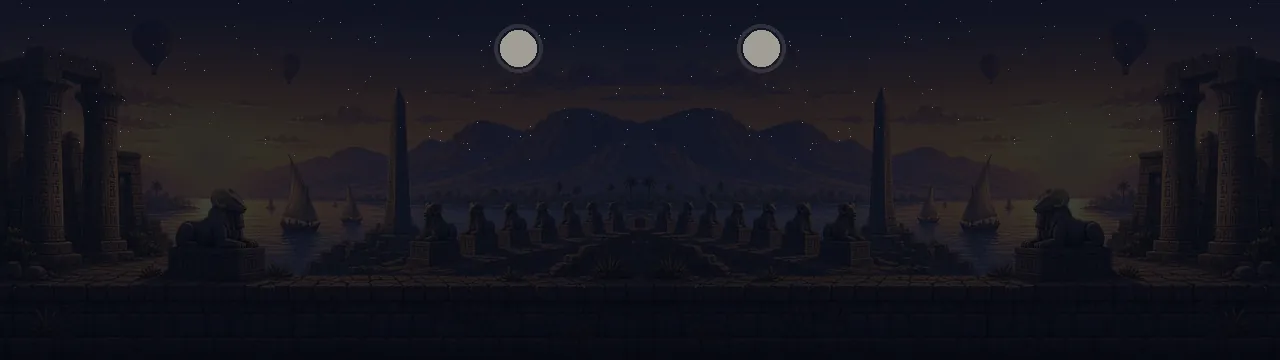
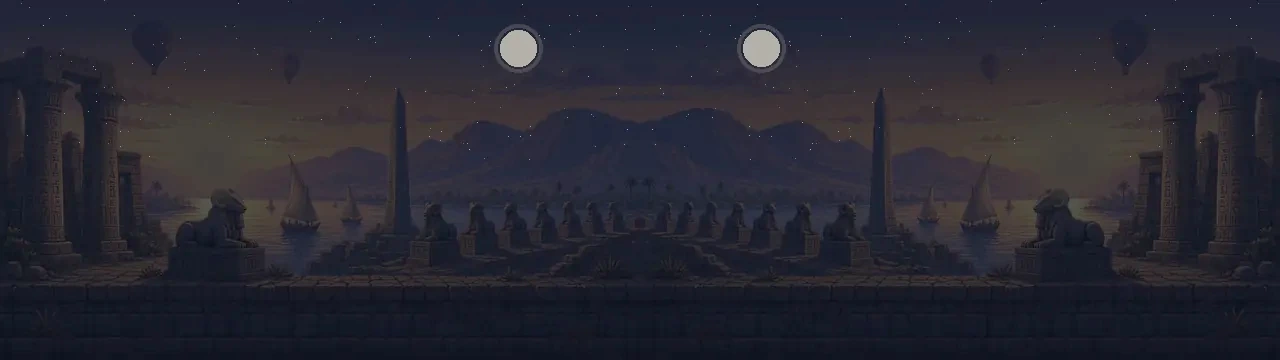
art: lift dark backdrop detail without changing level geometry

diff --git a/scripts/art/grade-backdrops.py b/scripts/art/grade-backdrops.py
@@ -1,0 +1,12 @@
+"""Readable dark-scene backgrounds, preserving source art and mirrored loops.
+Requires Pillow. Rebuild only from the checked-in source, never a graded output.
+"""
+from pathlib import Path
+from PIL import Image
+
+ROOT = Path(__file__).resolve().parents[2]
+SOURCE = Path(__file__).with_name('backdrop-source')
+LUT = [round(255 * ((value / 255) ** 0.76)) for value in range(256)]
+for source in SOURCE.glob('l*.webp'):
+    image = Image.open(source).convert('RGB').point(LUT * 3)
+    image.save(ROOT / 'public' / 'bg' / source.name, 'WEBP', quality=92, method=6)
